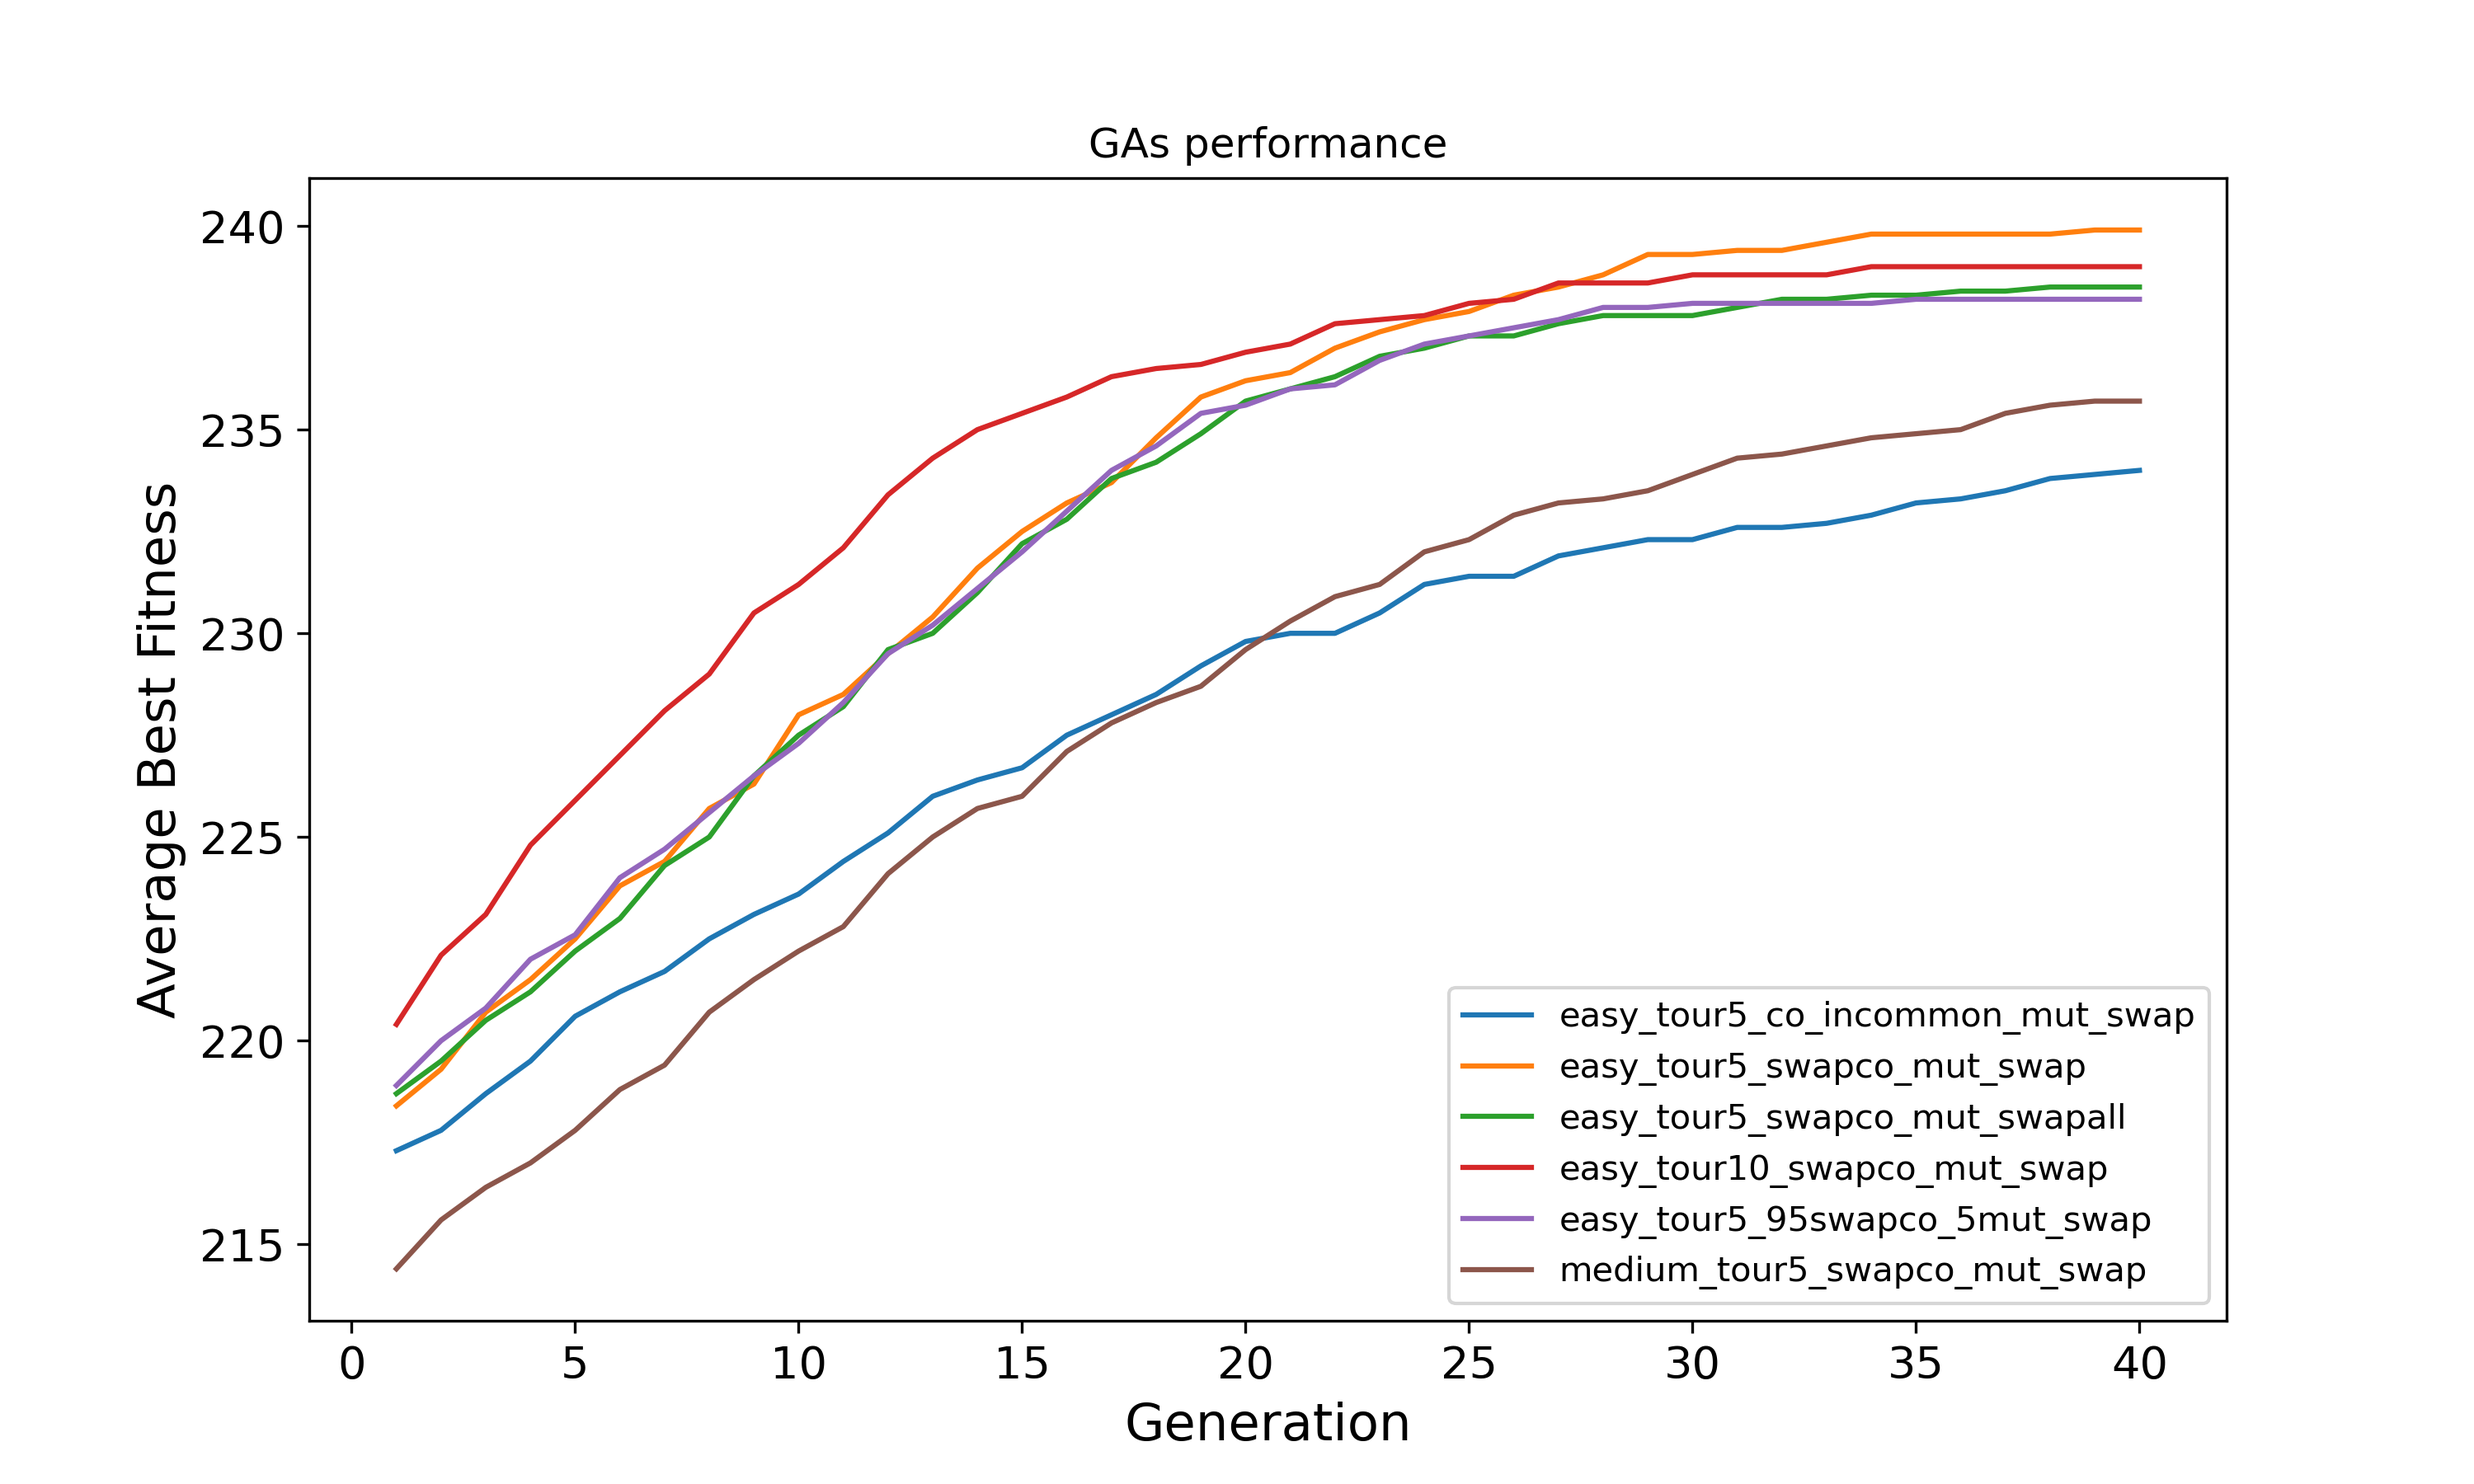
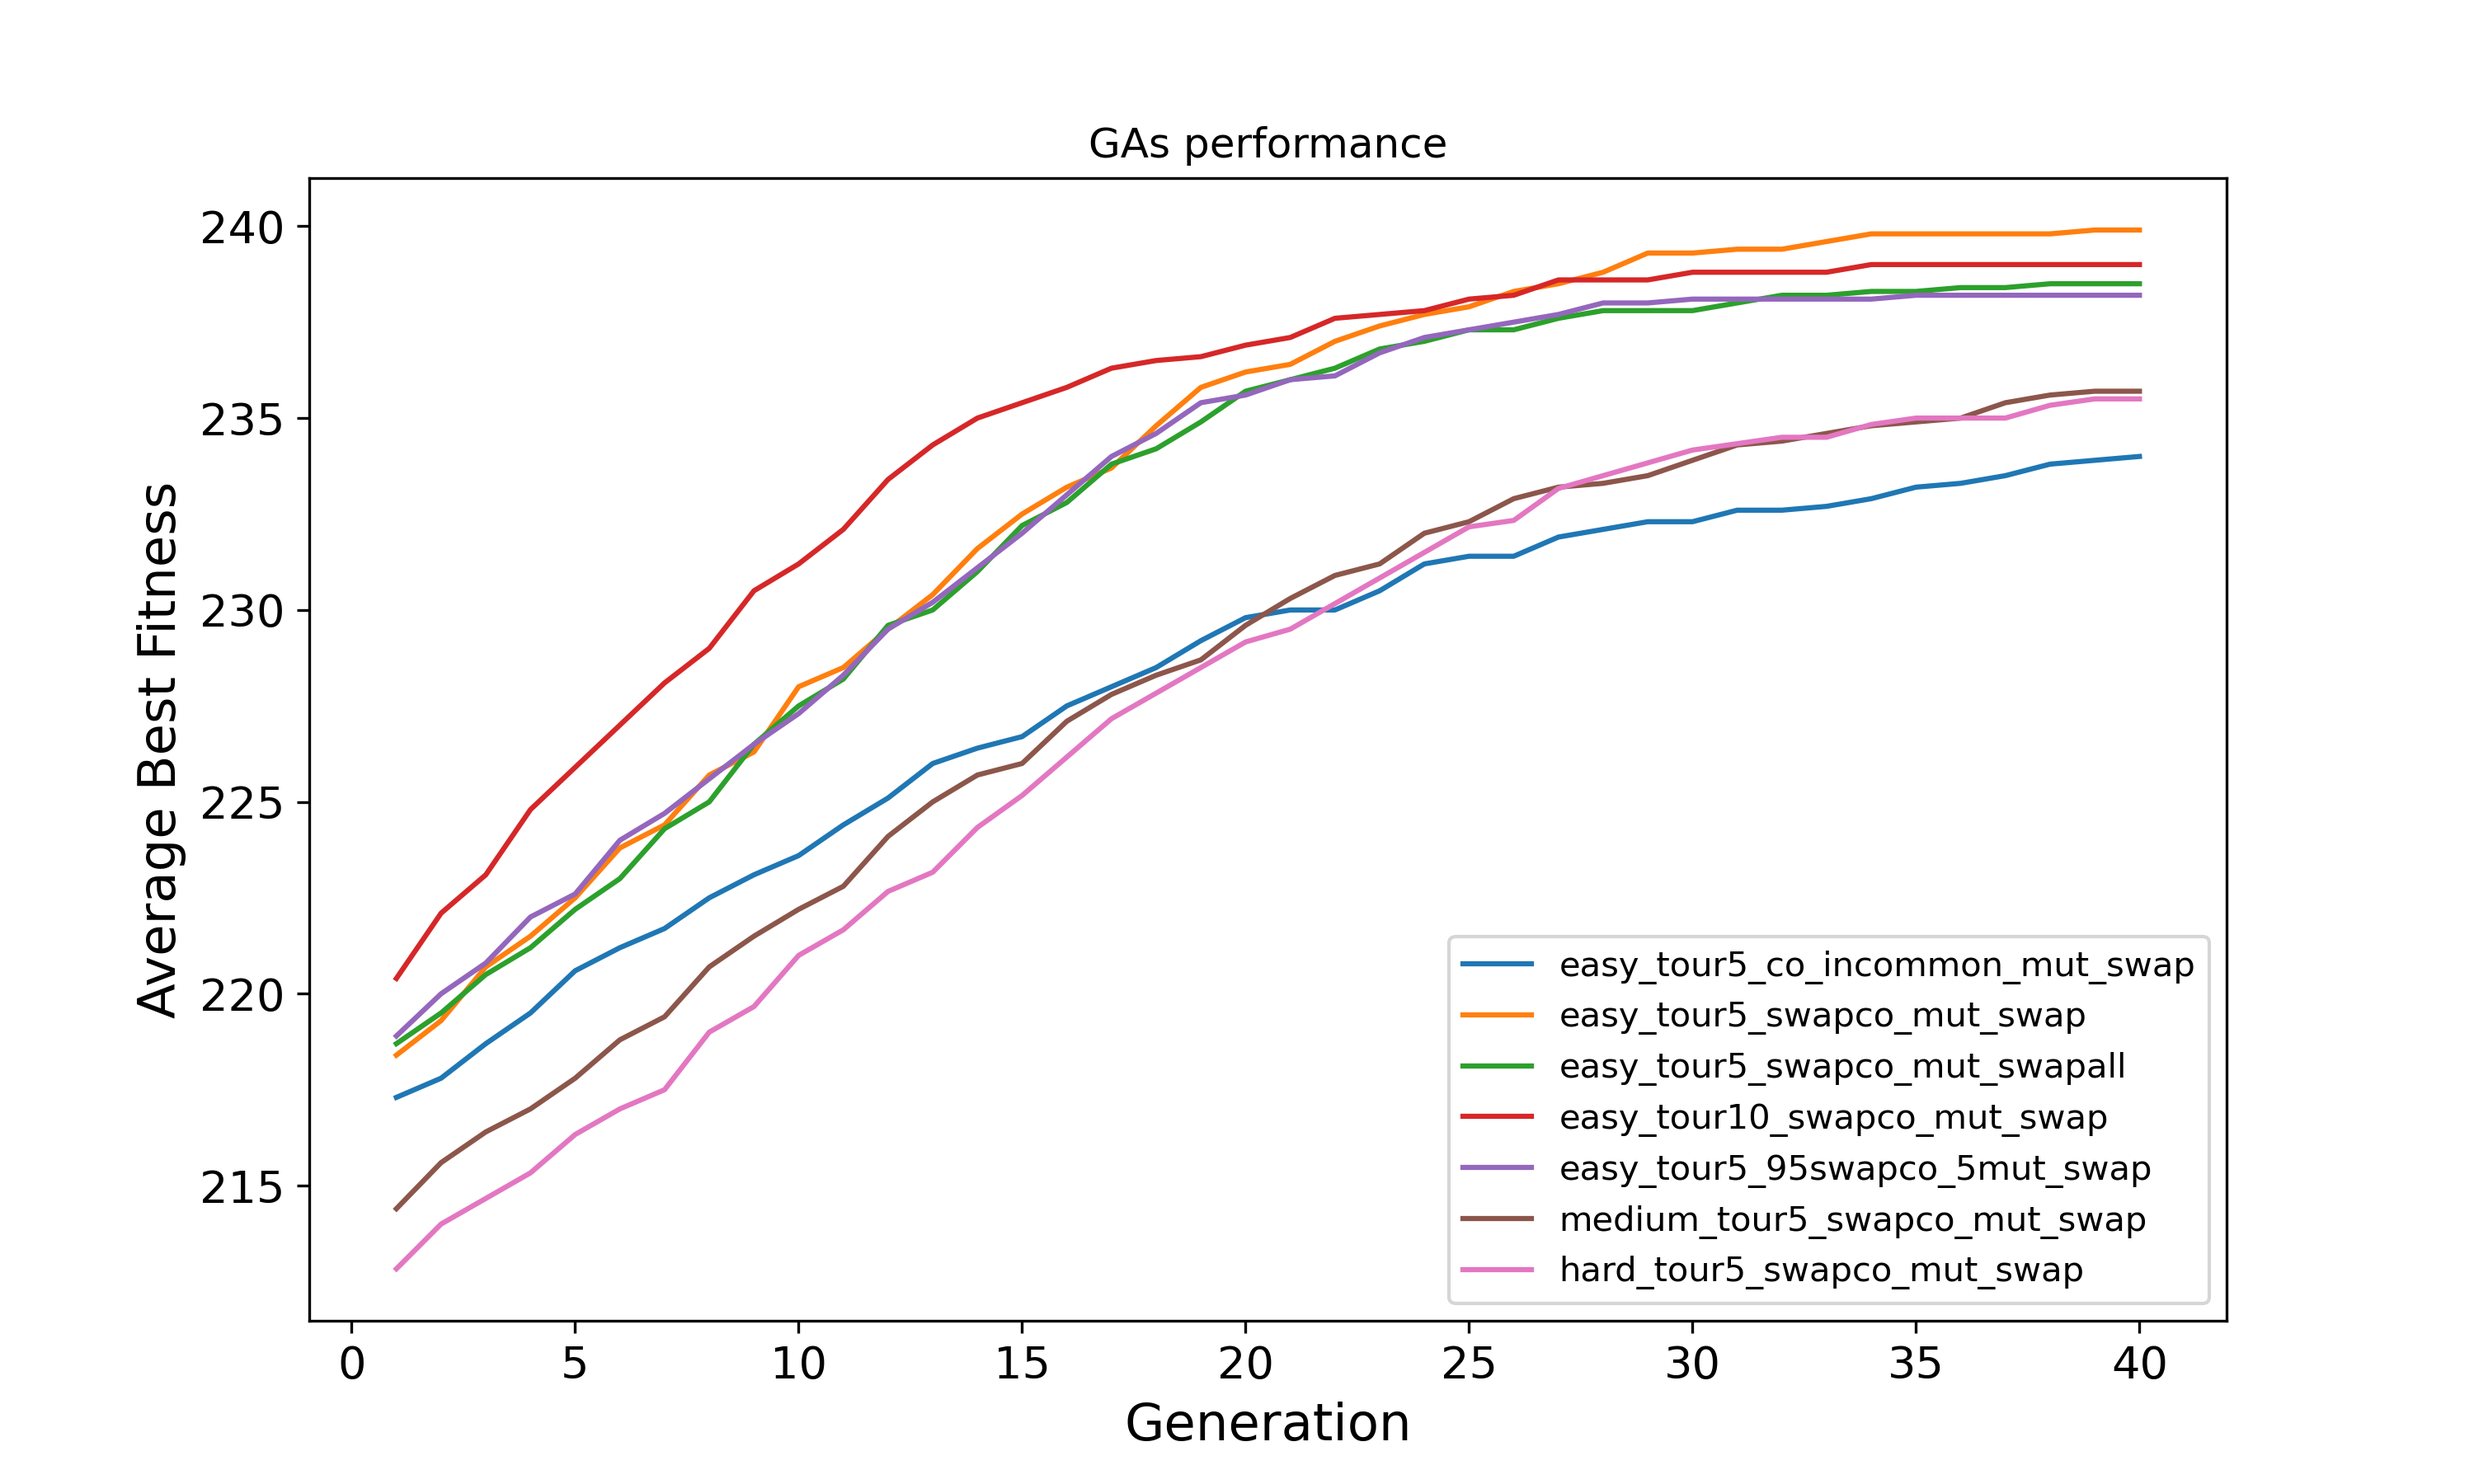
added hard

diff --git a/charles/crossover.py b/charles/crossover.py
@@ -1,13 +1,12 @@
 from random import choice, sample, random, uniform, randint
-import numpy as np
 from copy import deepcopy
 
 def in_common_co (indiv1, indiv2): #took into consideration not changing the numbers given
 
     """
-    Implementation of In Common Crossover - created by us specifically for the sudoku problem
-    Considering only the indexes of individuals that are not in the initial game either for the first individual or for the second
-    We swap the ones in common
+    Implementation of In Common Crossover - created by us specifically for the sudoku problem.
+    Considering only the indexes of individuals that are not in the initial game either for the first individual or for the second.
+    We swap the ones in common.
 
     Args:
         indiv1 (Individual): First parent for crossover.
@@ -22,7 +21,7 @@ def in_common_co (indiv1, indiv2): #took into consideration not changing the num
     offspring2 = deepcopy(indiv2)
 
     # for the two individuals we check which are the common indexes missing (indexes that aren't present in the initial puzzle)
-    # for all of these indexes we swap the numbers from one individual to the other
+    # for all of these indexes we swap the numbers from one individual to the other.
     for elem in (set(indiv1.index_missing) and set(indiv2.index_missing)):
 
         offspring1[elem] = indiv2[elem]
@@ -33,9 +32,9 @@ def in_common_co (indiv1, indiv2): #took into consideration not changing the num
 def in_common_prob_co(indiv1, indiv2, prob_co=0.7):
 
     """
-    Implementation of In Common Crossover Probability - created by us specifically for the sudoku problem
-    Similar to the Common Crossover defined above, except that here we consider a probability
-    So we only apply crossover a certain amount of times, according to a provided probability
+    Implementation of In Common Crossover Probability - created by us specifically for the sudoku problem.
+    Similar to the Common Crossover defined above, except that here we consider a probability.
+    So we only apply crossover a certain amount of times, according to a provided probability.
 
     Args:
         indiv1 (Individual): First parent for crossover.
@@ -64,9 +63,9 @@ def swap_elements_co(indiv1, indiv2):
     """
     Implementation of Swap Elements Crossover - created by us specifically for the sudoku problem
     Randomly chose if the crossover is applied to columns, rows or boxes
-    After choosing the "variable" to use, we just choose 2 individuals to swap the correspondent row, column or box between each other
+    After choosing the "variable" to use, we just choose 2 individuals to swap from the correspondent row, column or box between each other
     This crossover method takes into account that we can't change the numbers that were already in the initial puzzle
-    (if we swap the one row, for example, in one individual with the same row of another individual, the original numbers are the same)
+    (if we swap the first row, for example, in one individual with the same row of another individual, the original numbers are the same)
 
     Args:
         indiv1 (Individual): First parent for crossover.
@@ -110,7 +109,7 @@ def swap_elements_co(indiv1, indiv2):
 
     elif random_decision == 2:  # do crossover by boxs
         # Choosing a random block
-        # A block is a set of 3 boxes 3*3 (so basically indicates the 3 boxes in the firsts rows of the sudoku)
+        # A block is a set of 3 boxes 3*3 (so basically indicates the 3 boxes in the first rows of the sudoku)
         block_chosen = sample(range(0, 3), k=1)[0]
 
         # Inside the block, choose a random box to swap
@@ -118,7 +117,6 @@ def swap_elements_co(indiv1, indiv2):
 
         # Saving the initial index of the box chosen
         ind_initial = block_chosen * 27 + box_chosen * 3
-
 
         for k in range(0, 3):  # 3 lines
 

diff --git a/charles/charles.py b/charles/charles.py
@@ -21,10 +21,11 @@ class Individual:
                 "It is mandatory to provide an initial sudoku."
             )
 
-        if int(math.isqrt(len(initial_sudoku)) + 0.5) ** 2 != len(initial_sudoku): # check if it is a square
+        #if int(math.isqrt(len(initial_sudoku)) + 0.5) ** 2 != len(initial_sudoku): # check if it is a square
+        if len(initial_sudoku) != 81:
             raise Exception(
-                "The Sudoku's size must be the square of an integer number."
-            )
+            "The Sudoku's size must be the square of an integer number."
+        )
 
         if representation == None:
 
@@ -41,7 +42,7 @@ class Individual:
 
                 for i in range(j, j+9):
                     if i in self.index_missing:
-                        new_sudoku[i] = choice(number_missing) #assigning a random number for each missing value (0)
+                        new_sudoku[i] = choice(number_missing) #assigning a random number for each missing value(0)
                         number_missing.remove(new_sudoku[i])
 
             self.representation = deepcopy(new_sudoku)
@@ -107,7 +108,6 @@ class Population:
                 elif self.optim == "min":
                     elite = deepcopy(min(self.individuals, key=attrgetter("fitness")))
 
-
             while len(new_pop) < self.size_pop:
                 parent1, parent2 = select(self), select(self)
                 # Crossover
@@ -127,13 +127,11 @@ class Population:
                 if len(new_pop) < self.size_pop:
                     new_pop.append(Individual(representation=offspring2, initial_sudoku=self.initial_sudoku))
 
-            #
             if elitism == True:
                 if self.optim == "max":
                     least = min(new_pop, key=attrgetter("fitness"))
                 elif self.optim == "min":
                     least = max(new_pop, key=attrgetter("fitness"))
-
 
                 new_pop.pop(new_pop.index(least))
 
@@ -143,7 +141,6 @@ class Population:
             self.individuals = new_pop
             total_time = time.time() - start_time
 
-            all_fitness = []
             # Creating a list with the fitnesses of every individual
             all_fitness = [ind.fitness for ind in self]
 
@@ -168,8 +165,8 @@ class Population:
         ind_best_array = np.asarray(max(self, key=attrgetter("fitness")).representation)
         reshaped_array = ind_best_array.reshape(9, 9)
         print(reshaped_array)
+
         df = df.append({'best_found': best_found}, ignore_index=True)
-        #df.to_csv(file_name, encoding='utf-8')
         df.to_csv(file_name, mode='a', index=False, header=False)
 
     def __len__(self):

diff --git a/performance_function.py b/performance_function.py
@@ -2,8 +2,8 @@ from matplotlib import pyplot as plt
 import pandas as pd
 
 # Names of the files and of the legends for the figures
-files = ['performance/easy_tour5_co_incommon_mut_swap.csv', 'performance/easy_tour5_swapco_mut_swap.csv','performance/easy_tour5_swapco_mut_swapall.csv','performance/easy_tour10_swapco_mut_swap.csv','performance/easy_tour5_95swapco_5mut_swap.csv','performance/medium_tour5_swapco_mut_swap.csv']
-legends = ['easy_tour5_co_incommon_mut_swap', 'easy_tour5_swapco_mut_swap','easy_tour5_swapco_mut_swapall','easy_tour10_swapco_mut_swap','easy_tour5_95swapco_5mut_swap','medium_tour5_swapco_mut_swap']
+files = ['performance/easy_tour5_co_incommon_mut_swap.csv', 'performance/easy_tour5_swapco_mut_swap.csv','performance/easy_tour5_swapco_mut_swapall.csv','performance/easy_tour10_swapco_mut_swap.csv','performance/easy_tour5_95swapco_5mut_swap.csv','performance/medium_tour5_swapco_mut_swap.csv','performance/hard_tour5_swapco_mut_swap.csv']
+legends = ['easy_tour5_co_incommon_mut_swap', 'easy_tour5_swapco_mut_swap','easy_tour5_swapco_mut_swapall','easy_tour10_swapco_mut_swap','easy_tour5_95swapco_5mut_swap','medium_tour5_swapco_mut_swap','hard_tour5_swapco_mut_swap']
 
 def df(file):
     """

diff --git a/charles/selection.py b/charles/selection.py
@@ -1,6 +1,5 @@
 from random import uniform, sample, random, choice
 from operator import attrgetter
-import numpy as np
 
 def tournament(population, size=5):
 
@@ -66,7 +65,7 @@ def fps(population):
     else:
         raise Exception("No optimization specified (min or max).")
 
-def rank(population): # VER- TUDO COPIADO
+def rank(population):
     """
     Rank selection
 

diff --git a/charles/mutation.py b/charles/mutation.py
@@ -1,6 +1,4 @@
 from random import sample, random, randint
-import numpy as np
-from random import choice
 from copy import deepcopy
 
 def mutation_sample(indiv, number_mut=3):
